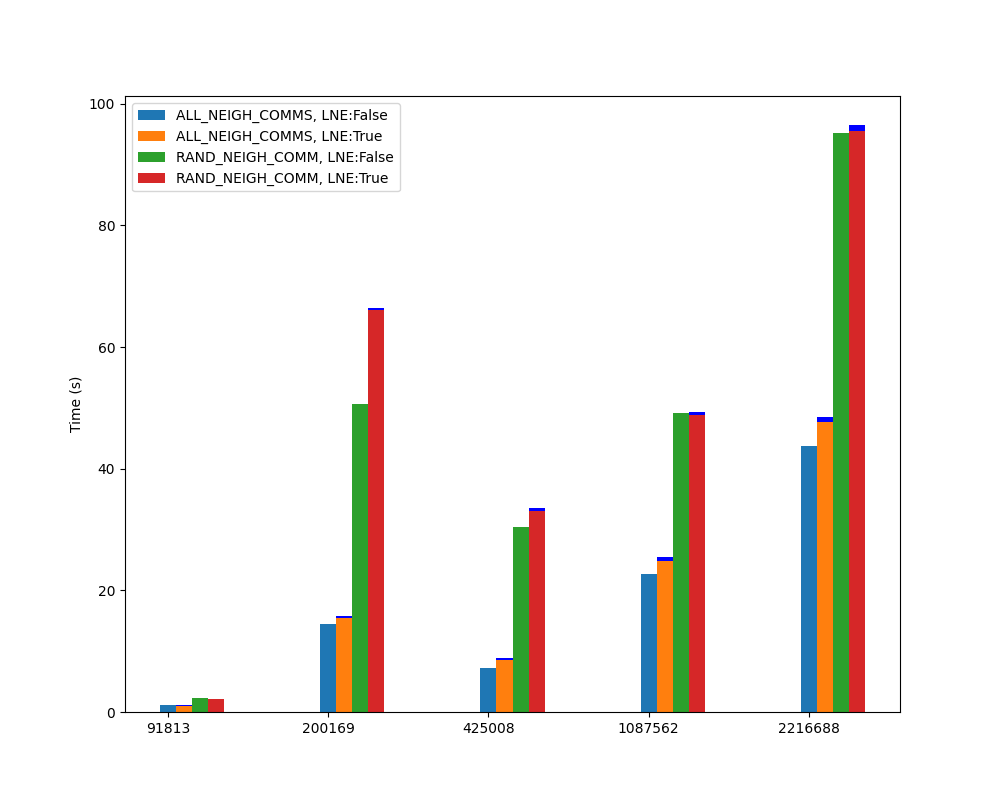
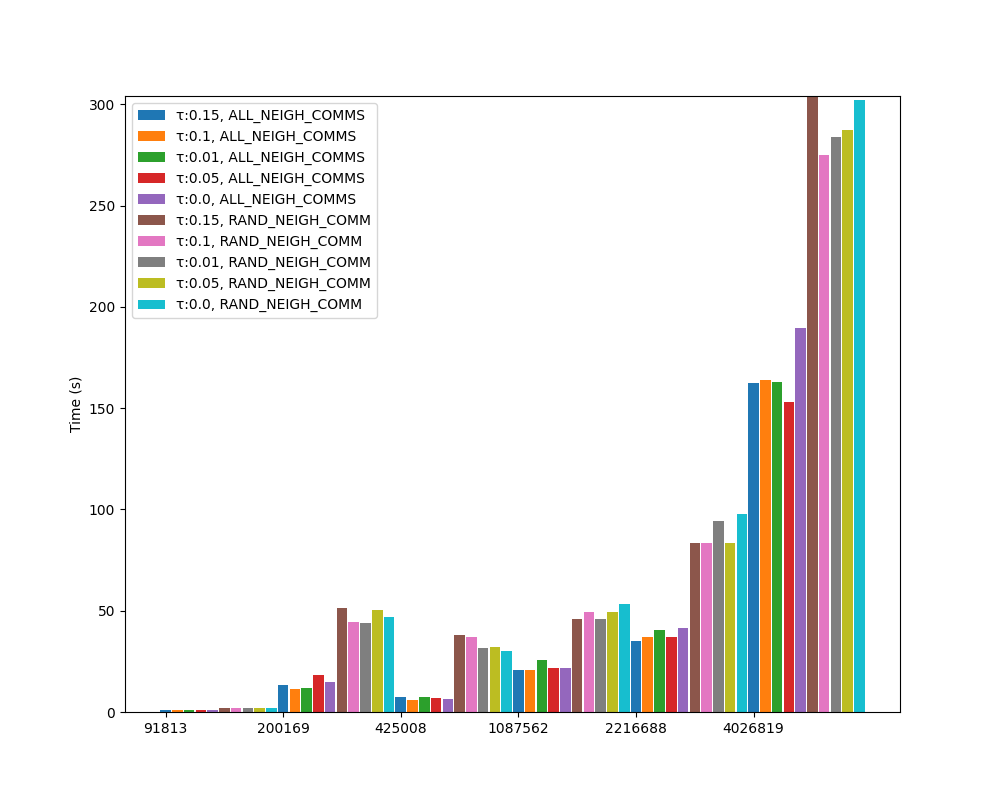
line threshold

diff --git a/SNACSproject.py b/SNACSproject.py
@@ -69,7 +69,7 @@ if __name__ == "__main__":
 	# 4 = RAND_NEIGH_COMM (Traag's Improved Method)
 	method_dict = {1: "ALL_COMMS", 2: "ALL_NEIGH_COMMS", 3: "RAND_COMM", 4:"RAND_NEIGH_COMM"}
 	settings_list = [(0.15, 2, False), (0.1, 2, False), (0.01, 2, False), (0.05, 2, False), (0.0, 2, False), (0.15, 4, False), (0.1, 4, False), (0.01, 4, False), (0.05, 4, False), (0.0, 4, False)]#threshold, comm_select, leaf_node_exclusion
-	networks = [readNetwork("rec-amazon.tsv"), readNetwork("soc-academia.tsv"), readNetwork("rt-higgs.tsv"), readNetwork("inf-roadNet-PA.tsv"), readNetwork("inf-netherlands_osm.tsv", False)]#
+	networks = [readNetwork("rec-amazon.tsv"), readNetwork("soc-academia.tsv"), readNetwork("rt-higgs.tsv"), readNetwork("inf-roadNet-PA.tsv"), readNetwork("inf-netherlands_osm.tsv", False), readNetwork("venturiLevel3.tsv", False)]#
 	n_settings = len(settings_list)
 	ind = np.arange(len(networks))
 	q_dict = {}
@@ -96,18 +96,26 @@ if __name__ == "__main__":
 	print("Start plotting...")
 	f, ax = plt.subplots(figsize=(10,8))
 	for ix, val in enumerate(q_dict.values()):#setting: [modularity]
-		plt.bar(ind + ix*0.1, val, width = 0.09, align="edge")
-	plt.xticks(ticks=range(len(network_sizes)), labels=network_sizes)
+		plt.scatter(network_sizes, val)
+		plt.plot(network_sizes, val)
+		#plt.bar(ind + ix*0.1, val, width = 0.09, align="edge")
+	#plt.xticks(ticks=range(len(network_sizes)), labels=network_sizes)#ticks param for x location
+	plt.xlabel("n")
+	ax.set_xscale('log')
 	plt.ylabel("Q")
 	ax.legend(["τ:{}, {}".format(setting[0], method_dict[setting[1]]) for setting in q_dict.keys()])
 	plt.savefig('modularityPlot.png')
 
 	f, ax = plt.subplots(figsize=(10,8))
-	bars = []
+	#bars = []
 	for ix, val in enumerate(t_dict.values()):#setting: [modularity]
-		bars.append(plt.bar(ind + ix*0.1, [tup[0] for tup in val], width = 0.09))
-		plt.bar(ind + ix*0.1, [tup[1] for tup in val], width = 0.09, bottom=[tup[0] for tup in val], color='b')
-	plt.xticks(ticks=range(len(network_sizes)), labels=network_sizes)
+		plt.scatter(network_sizes, val)
+		plt.plot(network_sizes, val)
+		#bars.append(plt.bar(ind + ix*0.1, [tup[0] for tup in val], width = 0.09))
+		#plt.bar(ind + ix*0.1, [tup[1] for tup in val], width = 0.09, bottom=[tup[0] for tup in val], color='b')
+	#plt.xticks(ticks=range(len(network_sizes)), labels=network_sizes)
+	ax.set_xscale('log')
+	plt.xlabel("n")
 	plt.ylabel("Time (s)")
-	ax.legend(bars, ["τ:{}, {}".format(setting[0], method_dict[setting[1]]) for setting in q_dict.keys()])
+	ax.legend(["τ:{}, {}".format(setting[0], method_dict[setting[1]]) for setting in q_dict.keys()])#bars,
 	plt.savefig('timePlot.png')
